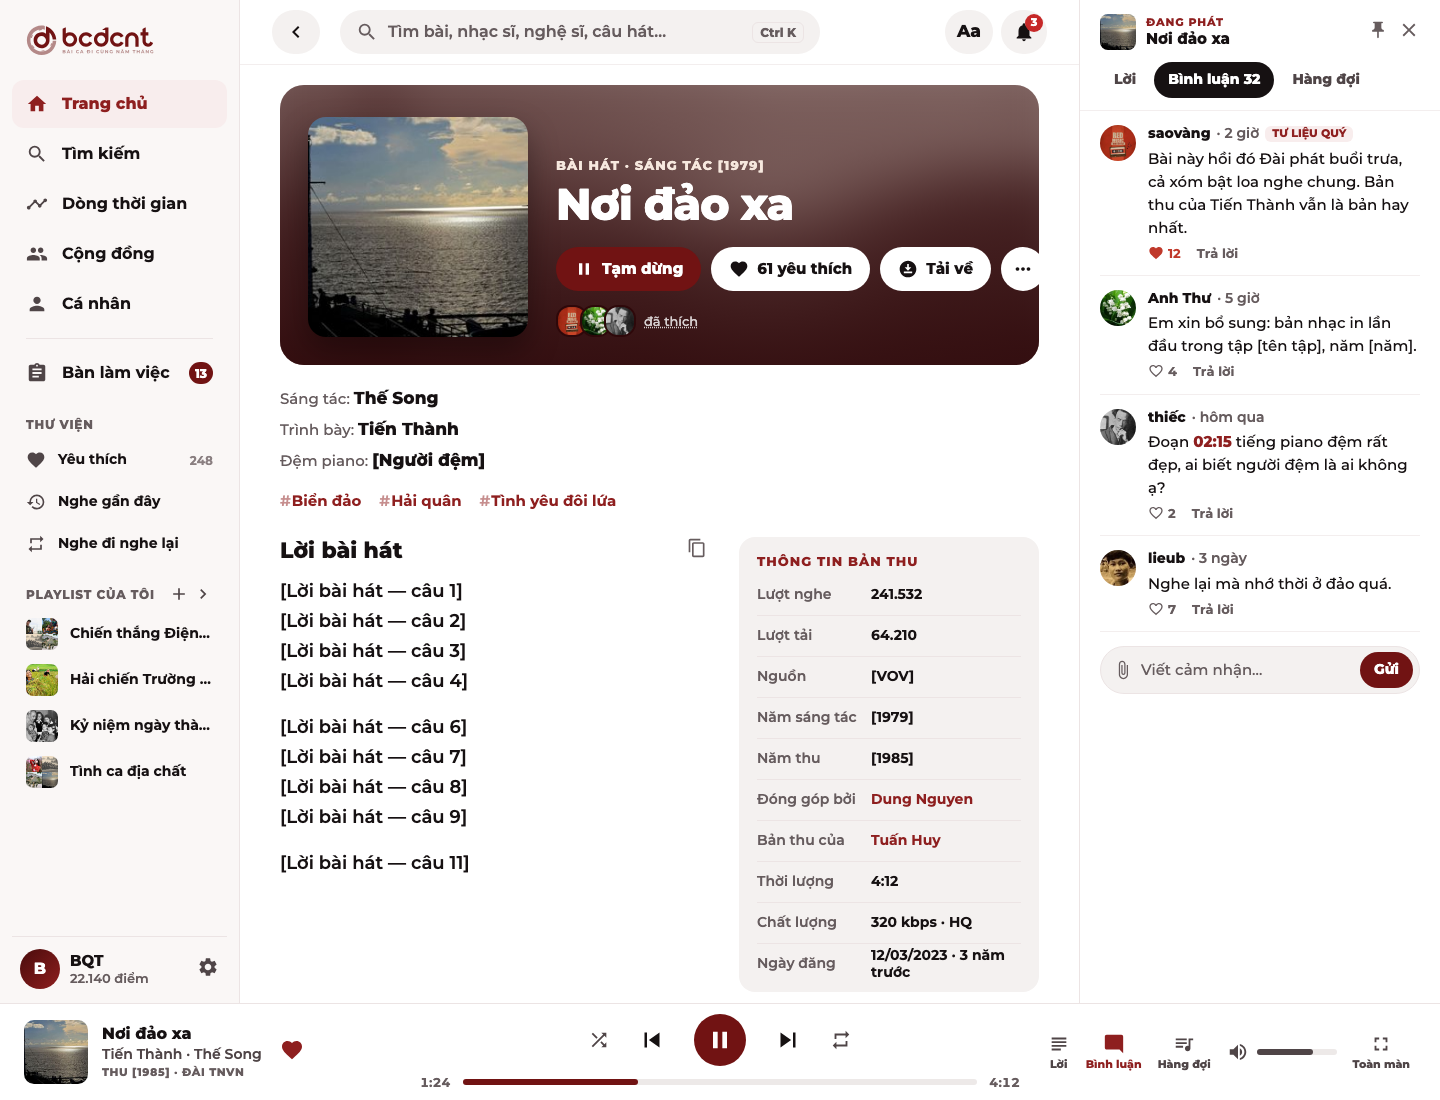
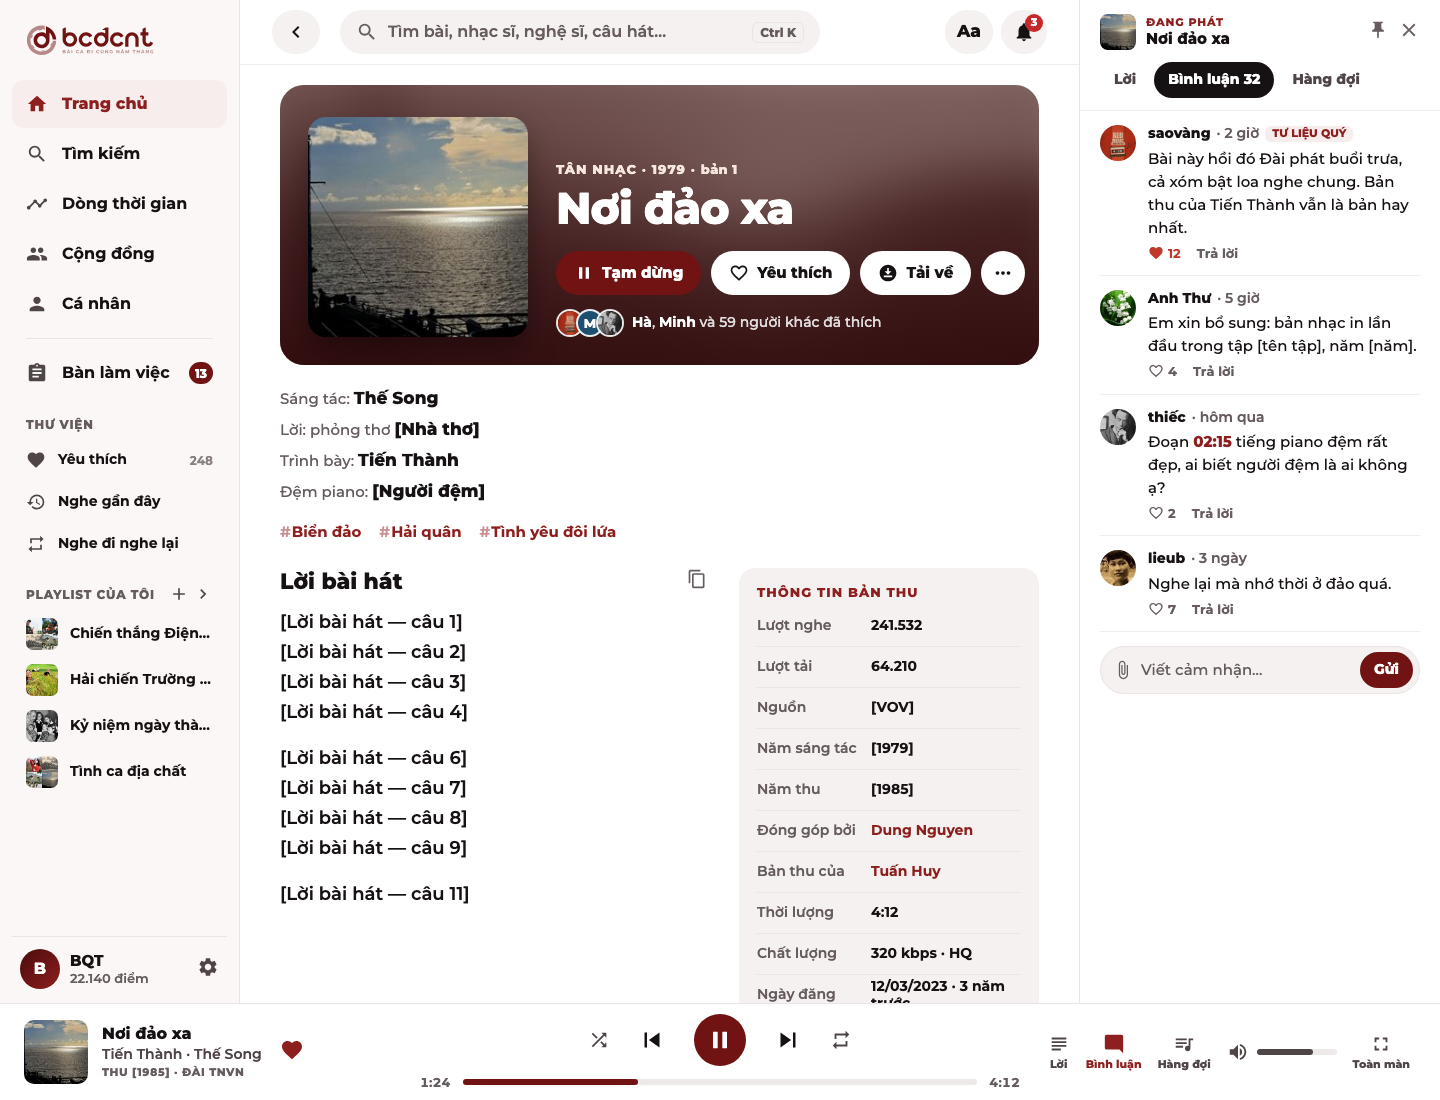
design(canvas): Bài hát desktop — dòng TÂN NHẠC · năm · bản, tên người thích, bỏ ':' thừa

diff --git a/design/canvas/project/Desktop_BaiHat.dc.html b/design/canvas/project/Desktop_BaiHat.dc.html
@@ -30,13 +30,13 @@
 <div style="flex: 1"></div><span style="height: 44px; min-width: 44px; padding: 0 12px; box-sizing: border-box; border-radius: 22px; background: #F4F1F0; display: flex; align-items: center; justify-content: center; gap: 6px; color: #161112"><span style="font-size: 17px; font-weight: 800">Aa</span></span>
 <span style="position: relative"><span style="height: 44px; min-width: 44px; padding: 0 12px; box-sizing: border-box; border-radius: 22px; background: #F4F1F0; display: flex; align-items: center; justify-content: center; gap: 6px; color: #161112"><svg width="22" height="22" viewBox="0 0 24 24" fill="currentColor" aria-hidden="true" style="flex-shrink: 0"><path d="M12 22c1.1 0 2-.9 2-2h-4c0 1.1.89 2 2 2zm6-6v-5c0-3.07-1.64-5.64-4.5-6.32V4c0-.83-.67-1.5-1.5-1.5s-1.5.67-1.5 1.5v.68C7.63 5.36 6 7.92 6 11v5l-2 2v1h16v-1l-2-2z"></path></svg></span><span style="position: absolute; top: 4px; right: 4px; min-width: 18px; height: 18px; border-radius: 9px; background: #C62828; color: #fff; font-size: 11px; font-weight: 800; display: flex; align-items: center; justify-content: center">3</span></span>
 </div><main style="flex: 1; min-height: 0; overflow: hidden"><div style="padding: 20px 40px 0">
-<!-- Khớp app (commit 7873e84): băng tối 300 = ảnh bài mờ + nhuộm; ảnh 220 trái; loại · năm sáng tác; tên 44; nút Tạm dừng / Yêu thích / Tải về / ⋯ (Lưu, Chia sẻ, Bản thu trong ⋯); "đã thích" ngay dưới nút. Dưới băng: dòng tác giả, tag; KHÔNG còn dòng lượt nghe/tải/ngày đăng (đã ở Thông tin bản thu) -->
+<!-- Khớp app (commit 7873e84): băng tối 300 = ảnh bài mờ + nhuộm; ảnh 220 trái; loại · năm sáng tác; tên 44; nút Tạm dừng / Yêu thích / Tải về / ⋯ (Lưu, Chia sẻ, Bản thu trong ⋯); "đã thích" ngay dưới nút. Dòng trên tên: TÂN NHẠC · năm · bản n (như mobile). Nút tim không ghi số; hàng avatar nêu tên người thích, avatar chữ mỗi người một màu + viền trắng. Nhãn vai trò đã có ":" (Lời: phỏng thơ) thì không thêm ":" cuối. Dưới băng: dòng tác giả, tag; KHÔNG còn dòng lượt nghe/tải/ngày đăng (đã ở Thông tin bản thu) -->
 <div style="height: 280px; border-radius: 24px; overflow: hidden; position: relative"><img src="/_blob/15d021a625e44f0e9ff37aae395a5ec2" alt="" style="position: absolute; inset: -40px; width: calc(100% + 80px); height: calc(100% + 80px); object-fit: cover; filter: url(#brandTint) blur(28px)"><span style="position: absolute; inset: 0; background: linear-gradient(180deg, rgba(46,8,10,0.35), rgba(46,8,10,0.9))"></span>
 <div style="position: absolute; inset: 28px; display: flex; align-items: flex-end; gap: 28px; color: #fff"><img src="/_blob/15d021a625e44f0e9ff37aae395a5ec2" alt="" style="width: 220px; height: 220px; border-radius: 18px; object-fit: cover; box-shadow: 0 14px 30px rgba(0,0,0,0.35)">
-<div style="flex: 1; min-width: 0"><div style="font-size: 13px; font-weight: 800; letter-spacing: 1px; color: #F6E8DE">BÀI HÁT · SÁNG TÁC [1979]</div><div style="margin-top: 8px; font-size: 44px; font-weight: 800; letter-spacing: -0.9px; line-height: 1.08">Nơi đảo xa</div>
-<div style="margin-top: 18px; display: flex; gap: 10px"><span style="height: 44px; padding: 0 18px; border-radius: 22px; display: inline-flex; align-items: center; gap: 8px; font-size: 15px; font-weight: 800; white-space: nowrap; background: #711313; color: #fff"><svg width="20" height="20" viewBox="0 0 24 24" fill="currentColor" aria-hidden="true" style="flex-shrink: 0"><path d="M6 19h4V5H6v14zm8-14v14h4V5h-4z"></path></svg>Tạm dừng</span><span style="height: 44px; padding: 0 18px; border-radius: 22px; display: inline-flex; align-items: center; gap: 8px; font-size: 15px; font-weight: 800; white-space: nowrap; background: #fff; color: #161112"><svg width="20" height="20" viewBox="0 0 24 24" fill="currentColor" aria-hidden="true" style="flex-shrink: 0"><path d="M12 21.35l-1.45-1.32C5.4 15.36 2 12.28 2 8.5 2 5.42 4.42 3 7.5 3c1.74 0 3.41.81 4.5 2.09C13.09 3.81 14.76 3 16.5 3 19.58 3 22 5.42 22 8.5c0 3.78-3.4 6.86-8.55 11.54L12 21.35z"></path></svg>61 yêu thích</span><span style="height: 44px; padding: 0 18px; border-radius: 22px; display: inline-flex; align-items: center; gap: 8px; font-size: 15px; font-weight: 800; white-space: nowrap; background: #fff; color: #161112"><svg width="20" height="20" viewBox="0 0 24 24" fill="currentColor" aria-hidden="true" style="flex-shrink: 0"><path d="M12 2C6.49 2 2 6.49 2 12s4.49 10 10 10 10-4.49 10-10S17.51 2 12 2zm-1 8V6h2v4h3l-4 4-4-4h3zm6 7H7v-2h10v2z"></path></svg>Tải về</span><span style="width: 44px; height: 44px; flex-shrink: 0; border-radius: 22px; background: #fff; color: #161112; display: flex; align-items: center; justify-content: center"><svg width="22" height="22" viewBox="0 0 24 24" fill="currentColor" aria-hidden="true" style="flex-shrink: 0"><path d="M6 10c-1.1 0-2 .9-2 2s.9 2 2 2 2-.9 2-2-.9-2-2-2zm12 0c-1.1 0-2 .9-2 2s.9 2 2 2 2-.9 2-2-.9-2-2-2zm-6 0c-1.1 0-2 .9-2 2s.9 2 2 2 2-.9 2-2-.9-2-2-2z"></path></svg></span></div>
-<div style="margin-top: 14px; display: flex; align-items: center; gap: 8px"><span style="display: flex"><img src="/_blob/82eaabf5353f0932631acc5c429f9aef" alt="" style="width: 28px; height: 28px; border-radius: 14px; object-fit: cover; border: 2px solid #2E080A; margin-left: 0px"><img src="/_blob/7779dbc5b942512dff4ec7683c11c896" alt="" style="width: 28px; height: 28px; border-radius: 14px; object-fit: cover; border: 2px solid #2E080A; margin-left: -8px"><img src="/_blob/a97d0f68f2204caebbee0ae2a5197797" alt="" style="width: 28px; height: 28px; border-radius: 14px; object-fit: cover; border: 2px solid #2E080A; margin-left: -8px"></span><span style="font-size: 13px; color: rgba(255,255,255,0.8); text-decoration: underline dotted">đã thích</span></div></div></div></div>
-<div style="margin-top: 18px"><div style="font-size: 15px; line-height: 30px; color: #665C5E">Sáng tác: <span style="font-size: 17px; font-weight: 800; color: #161112">Thế Song</span></div><div style="font-size: 15px; line-height: 30px; color: #665C5E">Trình bày: <span style="font-size: 17px; font-weight: 800; color: #161112">Tiến Thành</span></div><div style="font-size: 15px; line-height: 30px; color: #665C5E">Đệm piano: <span style="font-size: 17px; font-weight: 800; color: #161112">[Người đệm]</span></div></div>
+<div style="flex: 1; min-width: 0"><div style="font-size: 13px; font-weight: 800; letter-spacing: 1px; color: #F6E8DE">TÂN NHẠC · 1979 · <span style="text-transform: none; letter-spacing: 0.3px">bản 1</span></div><div style="margin-top: 8px; font-size: 44px; font-weight: 800; letter-spacing: -0.9px; line-height: 1.08">Nơi đảo xa</div>
+<div style="margin-top: 18px; display: flex; gap: 10px"><span style="height: 44px; padding: 0 18px; border-radius: 22px; display: inline-flex; align-items: center; gap: 8px; font-size: 15px; font-weight: 800; white-space: nowrap; background: #711313; color: #fff"><svg width="20" height="20" viewBox="0 0 24 24" fill="currentColor" aria-hidden="true" style="flex-shrink: 0"><path d="M6 19h4V5H6v14zm8-14v14h4V5h-4z"></path></svg>Tạm dừng</span><span style="height: 44px; padding: 0 18px; border-radius: 22px; display: inline-flex; align-items: center; gap: 8px; font-size: 15px; font-weight: 800; white-space: nowrap; background: #fff; color: #161112"><svg width="20" height="20" viewBox="0 0 24 24" fill="currentColor" aria-hidden="true" style="flex-shrink: 0"><path d="M16.5 3c-1.74 0-3.41.81-4.5 2.09C10.91 3.81 9.24 3 7.5 3 4.42 3 2 5.42 2 8.5c0 3.78 3.4 6.86 8.55 11.54L12 21.35l1.45-1.32C18.6 15.36 22 12.28 22 8.5 22 5.42 19.58 3 16.5 3zm-4.4 15.55l-.1.1-.1-.1C7.14 14.24 4 11.39 4 8.5 4 6.5 5.5 5 7.5 5c1.54 0 3.04.99 3.57 2.36h1.87C13.46 5.99 14.96 5 16.5 5c2 0 3.5 1.5 3.5 3.5 0 2.89-3.14 5.74-7.9 10.05z"></path></svg>Yêu thích</span><span style="height: 44px; padding: 0 18px; border-radius: 22px; display: inline-flex; align-items: center; gap: 8px; font-size: 15px; font-weight: 800; white-space: nowrap; background: #fff; color: #161112"><svg width="20" height="20" viewBox="0 0 24 24" fill="currentColor" aria-hidden="true" style="flex-shrink: 0"><path d="M12 2C6.49 2 2 6.49 2 12s4.49 10 10 10 10-4.49 10-10S17.51 2 12 2zm-1 8V6h2v4h3l-4 4-4-4h3zm6 7H7v-2h10v2z"></path></svg>Tải về</span><span style="width: 44px; height: 44px; flex-shrink: 0; border-radius: 22px; background: #fff; color: #161112; display: flex; align-items: center; justify-content: center"><svg width="22" height="22" viewBox="0 0 24 24" fill="currentColor" aria-hidden="true" style="flex-shrink: 0"><path d="M6 10c-1.1 0-2 .9-2 2s.9 2 2 2 2-.9 2-2-.9-2-2-2zm12 0c-1.1 0-2 .9-2 2s.9 2 2 2 2-.9 2-2-.9-2-2-2zm-6 0c-1.1 0-2 .9-2 2s.9 2 2 2 2-.9 2-2-.9-2-2-2z"></path></svg></span></div>
+<div style="margin-top: 14px; display: flex; align-items: center; gap: 8px"><span style="display: flex"><img src="/_blob/82eaabf5353f0932631acc5c429f9aef" alt="" style="width: 28px; height: 28px; border-radius: 14px; object-fit: cover; border: 2px solid rgba(255,255,255,0.9); box-sizing: border-box; margin-left: 0px"><span style="width: 28px; height: 28px; border-radius: 14px; box-sizing: border-box; background: #1F4F6E; color: #fff; font-size: 13px; font-weight: 800; display: flex; align-items: center; justify-content: center; border: 2px solid rgba(255,255,255,0.9); margin-left: -8px">M</span><img src="/_blob/a97d0f68f2204caebbee0ae2a5197797" alt="" style="width: 28px; height: 28px; border-radius: 14px; object-fit: cover; border: 2px solid rgba(255,255,255,0.9); box-sizing: border-box; margin-left: -8px"></span><span style="font-size: 14px; color: rgba(255,255,255,0.85)"><b style="color: #fff">Hà</b>, <b style="color: #fff">Minh</b> và 59 người khác đã thích</span></div></div></div></div>
+<div style="margin-top: 18px"><div style="font-size: 15px; line-height: 30px; color: #665C5E">Sáng tác: <span style="font-size: 17px; font-weight: 800; color: #161112">Thế Song</span></div><div style="font-size: 15px; line-height: 30px; color: #665C5E">Lời: phỏng thơ <span style="font-size: 17px; font-weight: 800; color: #161112">[Nhà thơ]</span></div><div style="font-size: 15px; line-height: 30px; color: #665C5E">Trình bày: <span style="font-size: 17px; font-weight: 800; color: #161112">Tiến Thành</span></div><div style="font-size: 15px; line-height: 30px; color: #665C5E">Đệm piano: <span style="font-size: 17px; font-weight: 800; color: #161112">[Người đệm]</span></div></div>
 <div style="margin-top: 16px; display: flex; gap: 18px"><span style="font-size: 15px; font-weight: 700; color: #8E1F1F"><span style="opacity: 0.5; margin-right: 1px">#</span>Biển đảo</span><span style="font-size: 15px; font-weight: 700; color: #8E1F1F"><span style="opacity: 0.5; margin-right: 1px">#</span>Hải quân</span><span style="font-size: 15px; font-weight: 700; color: #8E1F1F"><span style="opacity: 0.5; margin-right: 1px">#</span>Tình yêu đôi lứa</span></div>
 <div style="margin-top: 26px; display: flex; gap: 32px"><div style="flex: 1; min-width: 0"><div style="display: flex; align-items: center"><h2 style="margin: 0; flex: 1; font-size: 22px; font-weight: 800">Lời bài hát</h2><span style="color: #665C5E"><svg width="20" height="20" viewBox="0 0 24 24" fill="currentColor" aria-hidden="true" style="flex-shrink: 0"><path d="M16 1H4c-1.1 0-2 .9-2 2v14h2V3h12V1zm3 4H8c-1.1 0-2 .9-2 2v14c0 1.1.9 2 2 2h11c1.1 0 2-.9 2-2V7c0-1.1-.9-2-2-2zm0 16H8V7h11v14z"></path></svg></span></div><div style="margin-top: 12px; font-size: 18px; line-height: 30px; font-weight: 600"><div>[Lời bài hát — câu 1]</div><div>[Lời bài hát — câu 2]</div><div>[Lời bài hát — câu 3]</div><div>[Lời bài hát — câu 4]</div><div style="height: 16px"></div><div>[Lời bài hát — câu 6]</div><div>[Lời bài hát — câu 7]</div><div>[Lời bài hát — câu 8]</div><div>[Lời bài hát — câu 9]</div><div style="height: 16px"></div><div>[Lời bài hát — câu 11]</div></div></div>
 <div style="width: 300px; flex-shrink: 0"><div style="border-radius: 16px; background: #F4F1F0; padding: 16px 18px 8px"><div style="font-size: 13px; font-weight: 800; letter-spacing: 1px; color: #8E1F1F">THÔNG TIN BẢN THU</div><div style="margin-top: 6px"><div style="display: flex; gap: 10px; min-height: 40px; align-items: center; border-bottom: 1px solid #ECE4E4; font-size: 14px"><span style="width: 104px; flex-shrink: 0; font-weight: 600; color: #665C5E">Lượt nghe</span><span style="font-weight: 700; color: #161112">241.532</span></div><div style="display: flex; gap: 10px; min-height: 40px; align-items: center; border-bottom: 1px solid #ECE4E4; font-size: 14px"><span style="width: 104px; flex-shrink: 0; font-weight: 600; color: #665C5E">Lượt tải</span><span style="font-weight: 700; color: #161112">64.210</span></div><div style="display: flex; gap: 10px; min-height: 40px; align-items: center; border-bottom: 1px solid #ECE4E4; font-size: 14px"><span style="width: 104px; flex-shrink: 0; font-weight: 600; color: #665C5E">Nguồn</span><span style="font-weight: 700; color: #161112">[VOV]</span></div><div style="display: flex; gap: 10px; min-height: 40px; align-items: center; border-bottom: 1px solid #ECE4E4; font-size: 14px"><span style="width: 104px; flex-shrink: 0; font-weight: 600; color: #665C5E">Năm sáng tác</span><span style="font-weight: 700; color: #161112">[1979]</span></div><div style="display: flex; gap: 10px; min-height: 40px; align-items: center; border-bottom: 1px solid #ECE4E4; font-size: 14px"><span style="width: 104px; flex-shrink: 0; font-weight: 600; color: #665C5E">Năm thu</span><span style="font-weight: 700; color: #161112">[1985]</span></div><div style="display: flex; gap: 10px; min-height: 40px; align-items: center; border-bottom: 1px solid #ECE4E4; font-size: 14px"><span style="width: 104px; flex-shrink: 0; font-weight: 600; color: #665C5E">Đóng góp bởi</span><span style="font-weight: 700; color: #8E1F1F">Dung Nguyen</span></div><div style="display: flex; gap: 10px; min-height: 40px; align-items: center; border-bottom: 1px solid #ECE4E4; font-size: 14px"><span style="width: 104px; flex-shrink: 0; font-weight: 600; color: #665C5E">Bản thu của</span><span style="font-weight: 700; color: #8E1F1F">Tuấn Huy</span></div><div style="display: flex; gap: 10px; min-height: 40px; align-items: center; border-bottom: 1px solid #ECE4E4; font-size: 14px"><span style="width: 104px; flex-shrink: 0; font-weight: 600; color: #665C5E">Thời lượng</span><span style="font-weight: 700; color: #161112">4:12</span></div><div style="display: flex; gap: 10px; min-height: 40px; align-items: center; border-bottom: 1px solid #ECE4E4; font-size: 14px"><span style="width: 104px; flex-shrink: 0; font-weight: 600; color: #665C5E">Chất lượng</span><span style="font-weight: 700; color: #161112">320 kbps · HQ</span></div><div style="display: flex; gap: 10px; min-height: 40px; align-items: center; font-size: 14px"><span style="width: 104px; flex-shrink: 0; font-weight: 600; color: #665C5E">Ngày đăng</span><span style="font-weight: 700; color: #161112">12/03/2023 · 3 năm trước</span></div></div></div></div></div></div></main></div><!-- Ngăn phải 360 "Bên cạnh bài đang phát": Lời · Bình luận · Hàng đợi. Mặc định theo bài đang phát (ghim để giữ bài đang đọc). ≥1680 luôn mở; 1280–1679 bật/tắt; <1280 phủ lên nội dung, Esc đóng -->
